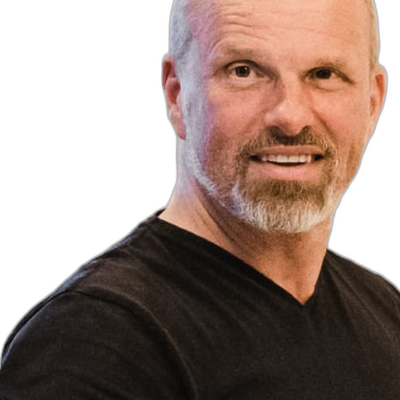
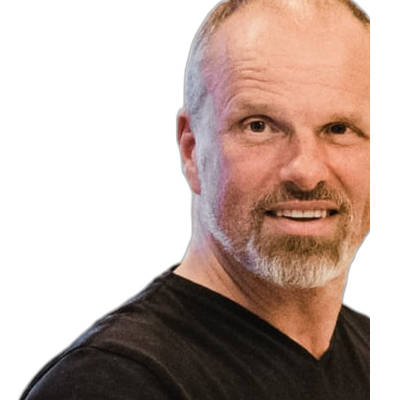
fix: re-center Benno portrait, more hero padding

diff --git a/index.html b/index.html
@@ -130,7 +130,7 @@
     <section id="hero" class="relative flex items-center pt-20">
       <!-- Red top accent line -->
       <div class="absolute top-20 left-0 right-0 h-1 bg-gp-red"></div>
-      <div class="mx-auto max-w-7xl px-6 lg:px-8 py-24 lg:py-40 w-full">
+      <div class="mx-auto max-w-7xl px-6 lg:px-8 py-32 lg:py-48 w-full">
         <div>
           <div class="max-w-4xl">
             <p class="font-heading text-lg md:text-xl font-bold text-gp-red uppercase tracking-wider">Beratung im Mittelstand</p>
